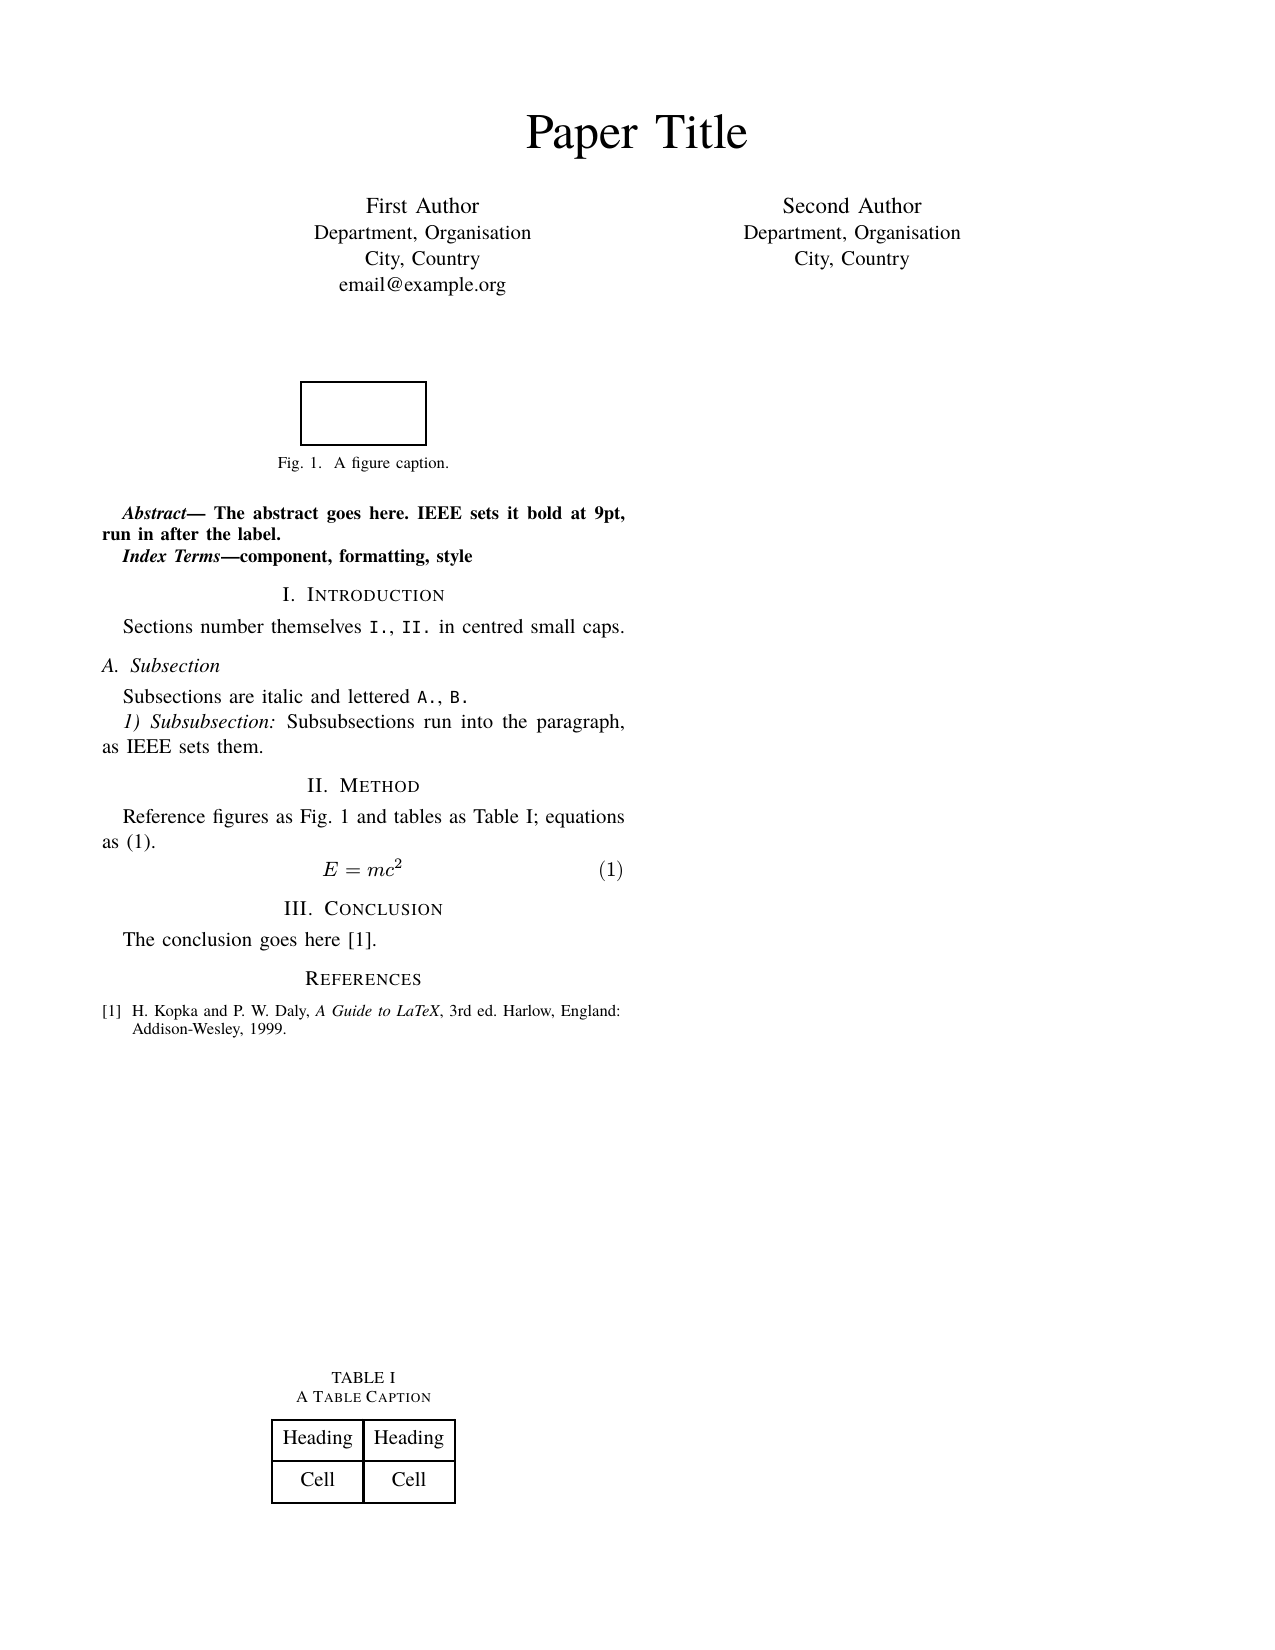
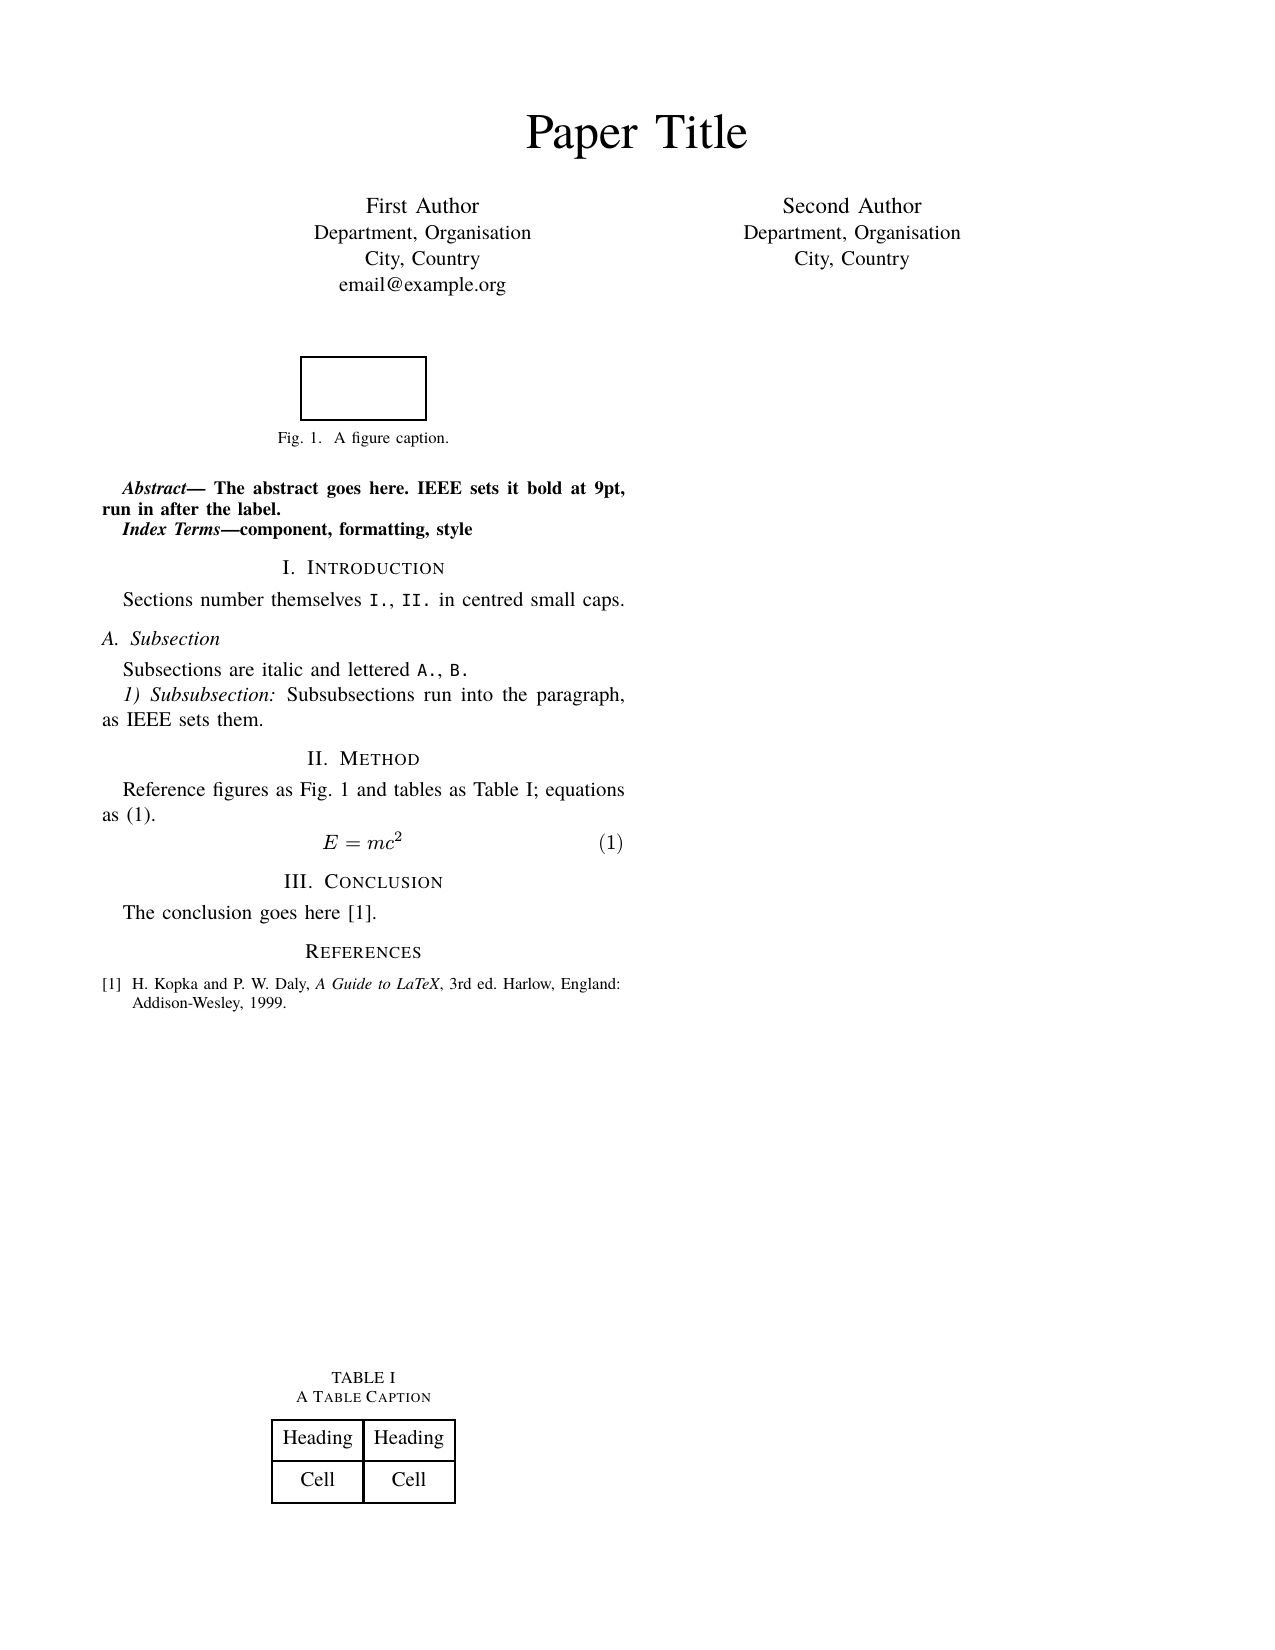
fix: the title block is padded by the class's own rule
The template added a per-mode slack to the title block and rounded up to a
whole line. \IEEEquantizevspace does something else (IEEEtran.cls:5165-5188):
it takes the padding nearest a nominal space that makes the total whole, and
a line more if that is under a minimum. Conferences ask for 1 line and accept
0.75, journals 2.5 and 2 (4969-4978).

quantize now does the same. One constant remains calibrated, the amount by
which TeX's measure of the block exceeds Typst's. The four references, the
author row probe, peer review and a published PowerTech paper all agree on
it, where the old slack put that paper's columns one line low. Transactions
on Magnetics passes the line the class takes off the end of its title block.

In conference mode the index terms follow the abstract at the abstract's
advance: the body's paragraph spacing put them 1pt low.

Changed region(s): [[0.0918, 0.2473, 0.4894, 0.6491], [0.3976, 0.34, 0.4894, 0.5255]]

diff --git a/CLAUDE.md b/CLAUDE.md
@@ -73,13 +73,13 @@ agreement hid errors of half a point for a long time.
 
 A few spacing constants are calibrated against the reference renders rather than derived from the class,
 and are marked as such in the source: the title-internal gaps, which depend on TeX's `\topskip` rule for
-the first line of a box, and the per-mode `slack-lines` in `geometry.typ`.
+the first line of a box, and `title-excess` in `geometry.typ`.
 
-The slack is documented there with the measured bounds for all three references. The short version: the
-class's `\@IEEENORMtitlevspace` sits below every valid range, short by roughly one line advance in each
-case, which matches the `[-\topskip]` offset `\IEEEquantizevspace` applies. Adding exactly one advance
-fixes journal but leaves the bare conference demo 0.66pt short, so the cause is narrowed rather than
-settled. The three ranges do intersect, but in a window under a point wide, so per-mode values are kept.
+`quantize` follows `\IEEEquantizevspace` exactly: the space under the title block is the one nearest the
+nominal that makes the total a whole number of lines, and a line more if that is under the minimum. What
+is calibrated is `title-excess`, the constant by which TeX's measure of the block exceeds Typst's. Seven
+renders bound it to a window three quarters of a point wide, listed there. An earlier version added a
+per-mode slack and rounded up, which fitted the references and put a real paper one line low.
 
 Treat these as load-bearing: if a layout drifts after a change, check them first, and run
 `scripts/check.sh`.

diff --git a/docs/known-gaps.md b/docs/known-gaps.md
@@ -124,9 +124,10 @@ nine-author probe compiled for the purpose. 26pt satisfies the first and leaves
 the probe 1pt short; 27pt the reverse; 26.5 satisfies both. A third document
 would test it further.
 
-**The title quantisation slack is calibrated, not derived.** The class's
-`\@IEEENORMtitlevspace` sits below every valid range, short by roughly one line
-advance, which matches the `[-\topskip]` offset `\IEEEquantizevspace` applies.
-Adding exactly one advance fixes journal but leaves the bare conference demo
-0.66pt short, so the cause is narrowed rather than settled. Measured bounds for
-all three references are recorded in `geometry.typ`.
+**One constant in the title quantisation is calibrated.** The rounding itself
+is the class's (`IEEEtran.cls:5165-5188`). What TeX counts as the height of
+the title block differs from what Typst measures by a constant, `title-excess`
+in `geometry.typ`, and working that out from the class lands a third of a line
+from what the renders show. Seven renders bound it to within three quarters of
+a point. A title with no ascenders in its first line is 0.5pt shorter to TeX,
+which is most of that window, so such a title can land a line off.
